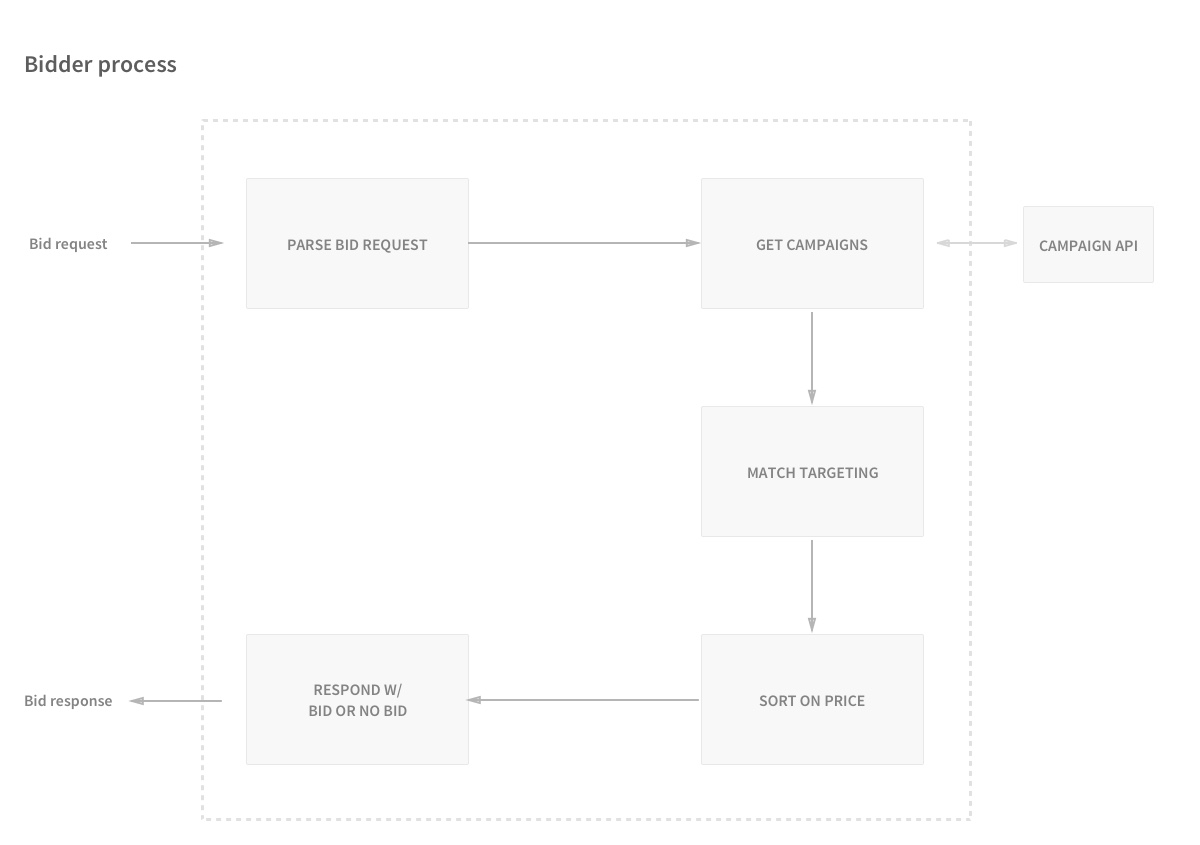
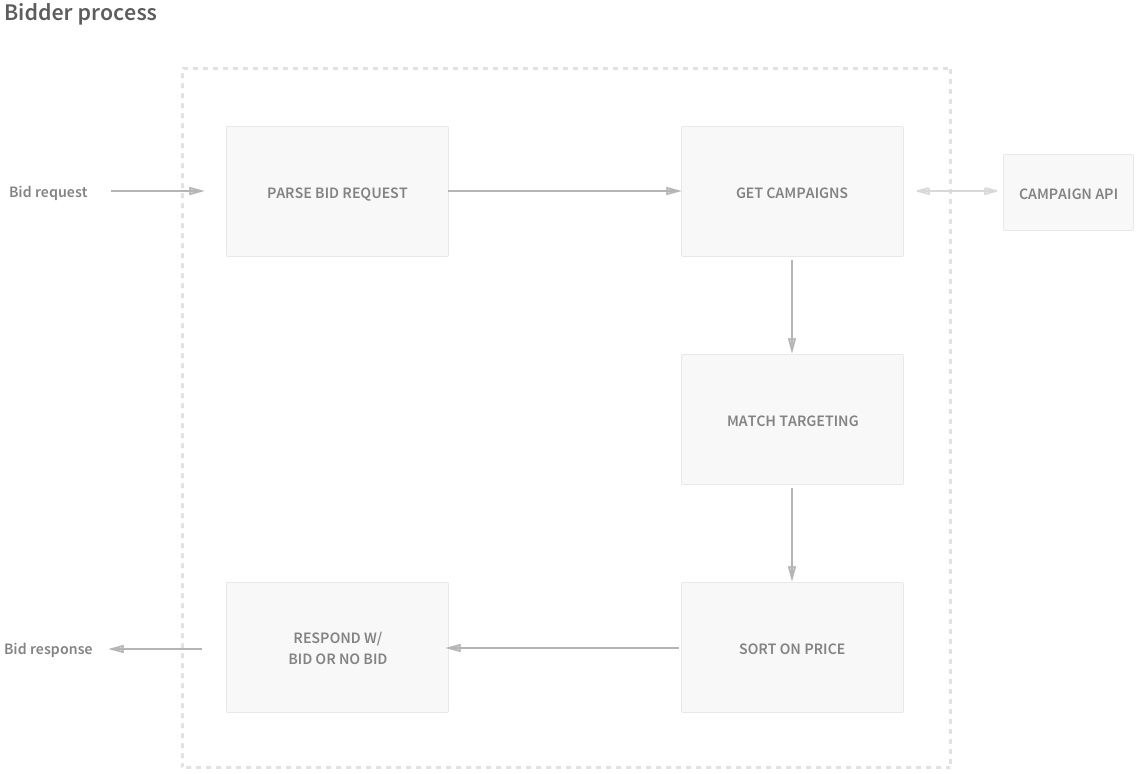
feat(img) Adds images for backend assignment

diff --git a/back-end/online-assignment/bidder-exercise/index.md b/back-end/online-assignment/bidder-exercise/index.md
@@ -8,7 +8,7 @@ You are a software engineer for an advertising technology company called Blue Ba
 
 A bidder is simply a platform which allows advertisers to submit bids to buy mobile ad space in real-time. A bidder receives bid requests from 3rd-party ad exchanges and responds back with a bid response. This bid then competes with bids from other bidders in a real-time auction at the exchange. The highest bid (in terms of bid price) wins and gets to show its ad. You can see this process illustrated below.
   
-![auction-process](/static/auction-process.jpg){:class="img-responsive"}
+![auction-process](/static/auction-process.jpg){:width="100%"}
 
 For this assignment we will focus on building a bidder so you do not need to worry about what happens at the ad exchange. If we zoom into what a bidder does then the typical flow is outlined below:
 
@@ -18,7 +18,7 @@ For this assignment we will focus on building a bidder so you do not need to wor
 - If there are matching campaigns then the bidder finds the highest paying campaign and submits a bid for that campaign to the ad exchange. 
 - Otherwise the bidder submits an empty response with no bid.
 
-![bidder-process](/static/bidder-process.jpg){:class="img-responsive"}
+![bidder-process](/static/bidder-process.jpg){:width="100%"}
 
 # Tasks
 

diff --git a/_includes/online-assignment/deliverables.md b/_includes/online-assignment/deliverables.md
@@ -6,7 +6,7 @@ In your uploaded solution you should include:
 2. Step-by-step instructions on how to run your code and tests (how to compile, how to install dependencies, how to run code etc). 
 3. Passing end-to-end tests for the test cases listed in the assignment.
 
-## Notes
+### Notes
 
 - If your code depends on external libraries and frameworks please do not include the source code for those in your submission. Please document the steps to install all the dependencies.
 - Upload your solution as a zip file (max 20MB).
